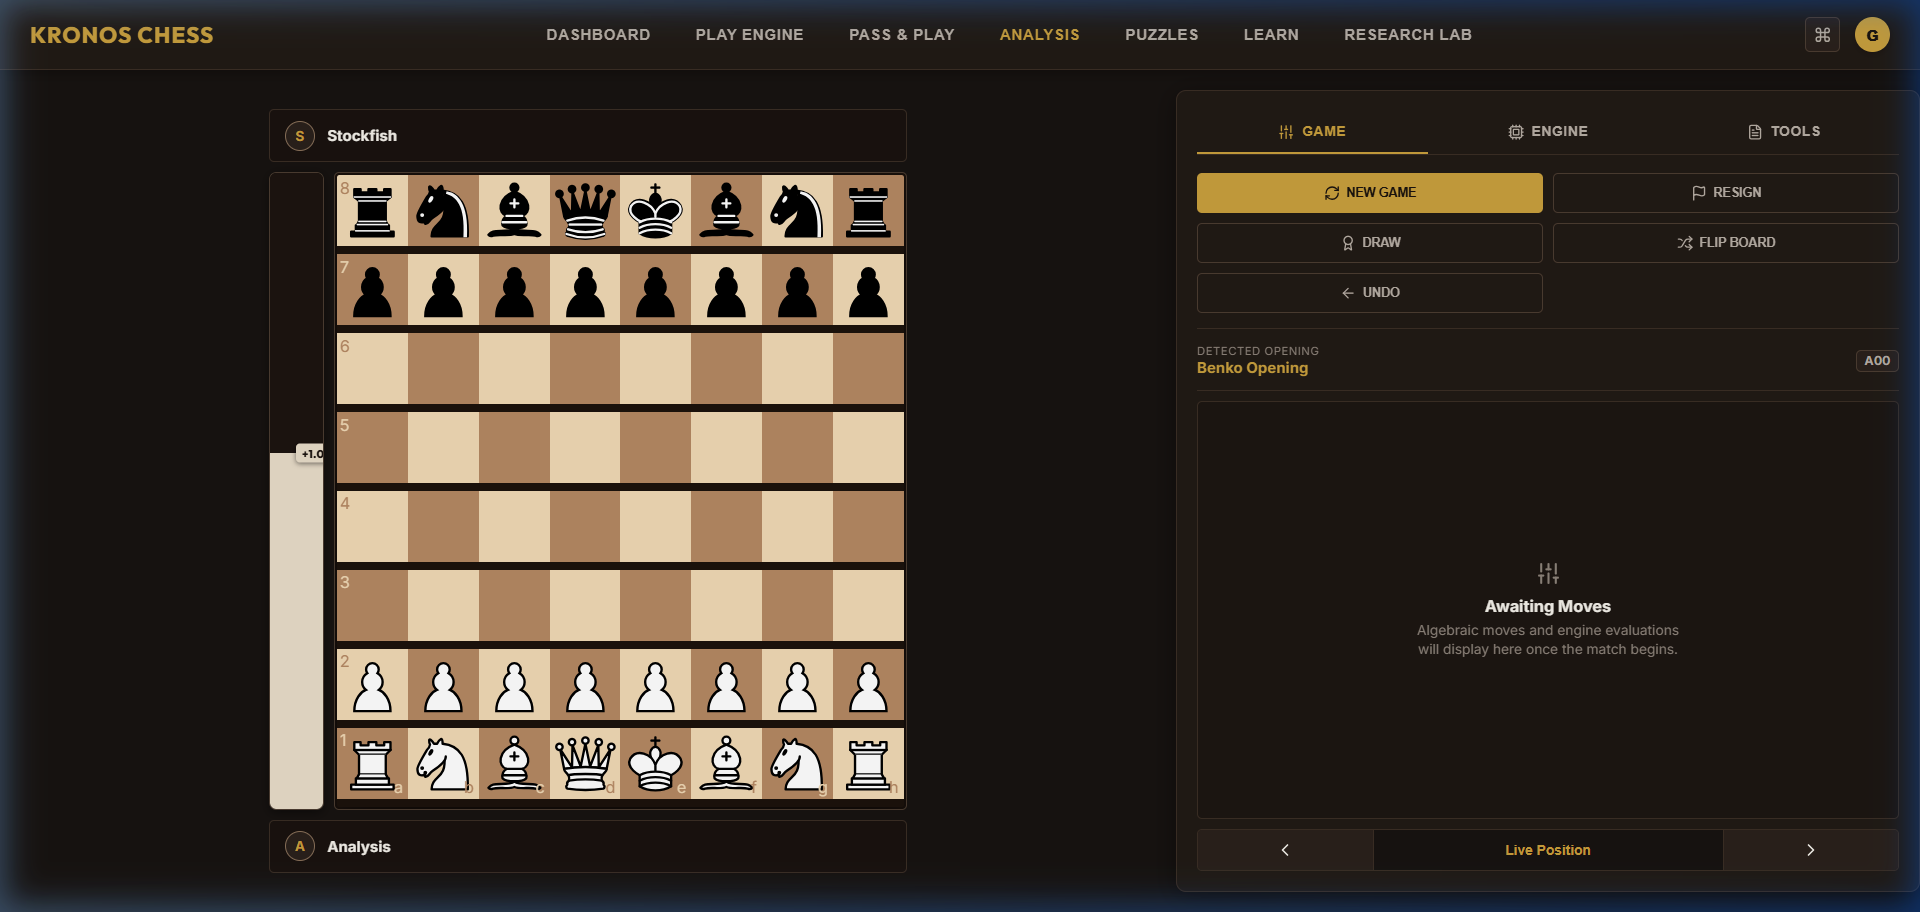
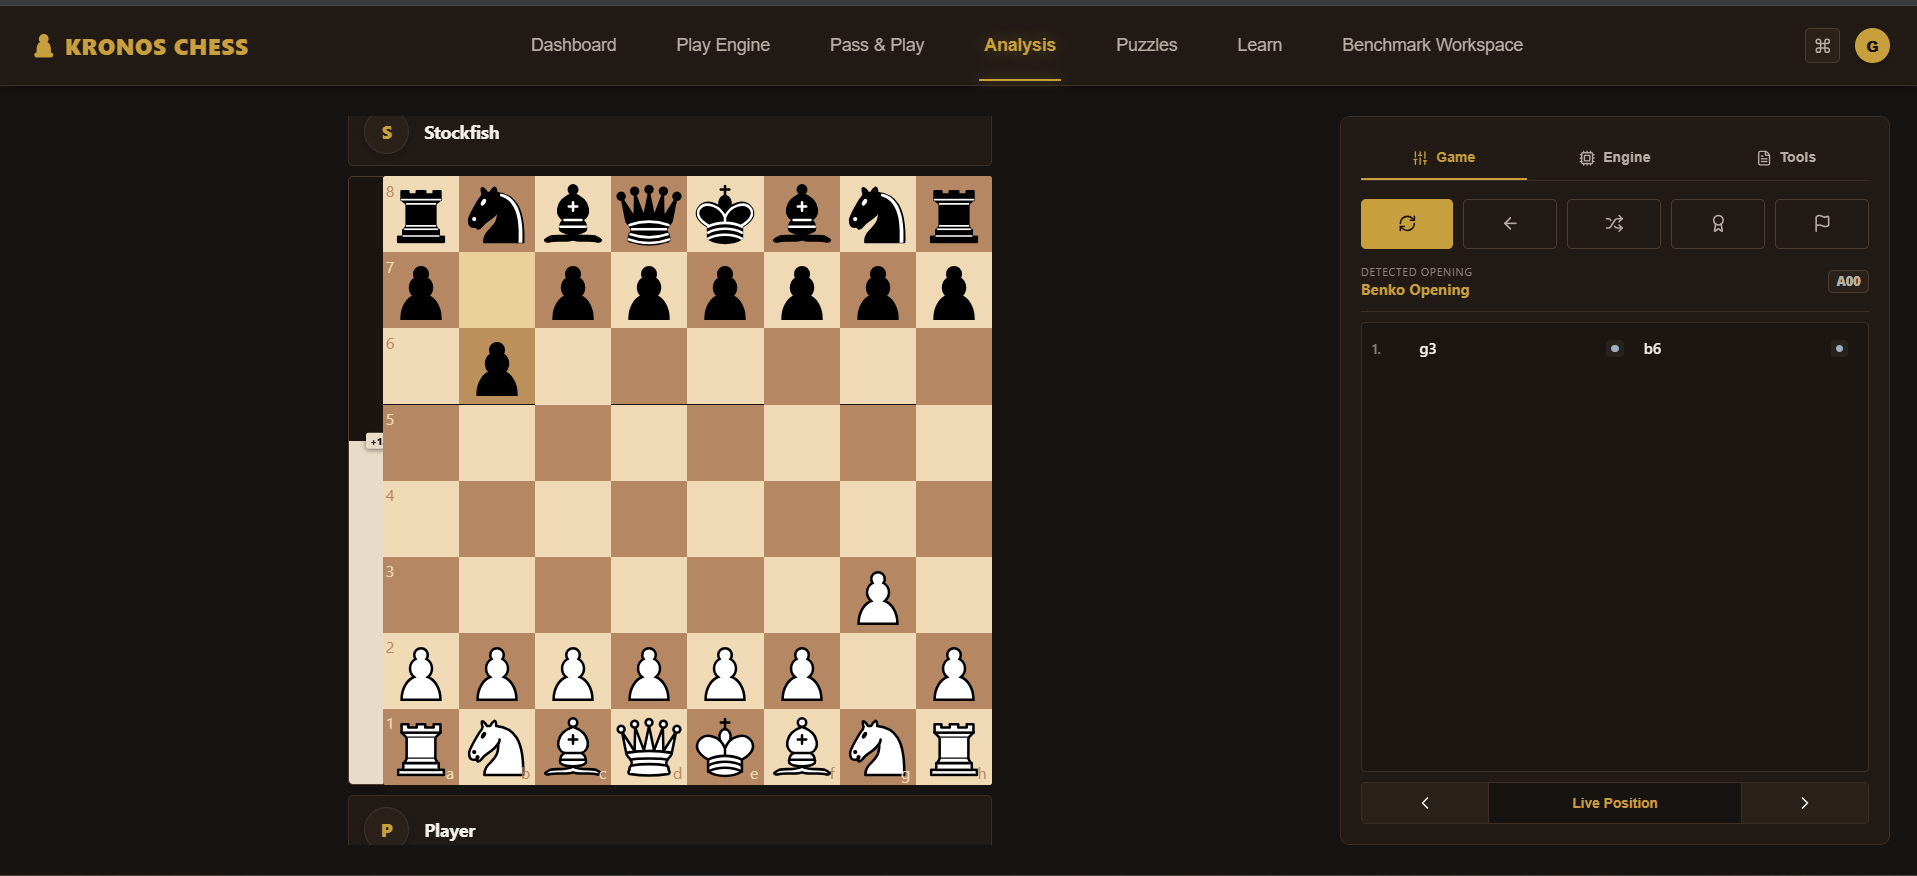
research paper work done

diff --git a/research-paper/tables/node_counts.tex b/research-paper/tables/node_counts.tex
@@ -1,6 +1,6 @@
 \begin{table}[htbp]
 \centering
-\caption[Search Node Ablation Study at Depth 4]{Search node count ablation study at depth 4. Note: The ablation study was executed under a legacy configuration where NMP was active for $d \ge 3$; under the final optimized configuration ($d \ge 5$), NMP is inactive at depth 4, resulting in a 0\% node reduction relative to the baseline.}
+\caption[Search Node Ablation Study at Depth 4]{Search node count ablation study at depth 4 under the final optimized configuration ($d \ge 5$ threshold for NMP).\footnotemark}
 \label{tab:node_counts}
 \begin{tabularx}{\textwidth}{Xrrr}
 \toprule
@@ -10,10 +10,11 @@ Full Kronos Engine (All Features) & 8,286  & --     & 1.00x \\
 No Principal Variation Search (PVS) & 8,739  & 5.2\%  & 0.78x \\
 No History Heuristic              & 8,869  & 6.6\%  & 0.78x \\
 No Late Move Reductions (LMR)     & 24,572 & 66.3\% & 0.24x \\
-No Null Move Pruning (NMP)        & 8,360  & 0.9\%  & 0.67x \\
+No Null Move Pruning (NMP)        & 8,286  & 0.0\%  & 1.00x \\
 Baseline Alpha-Beta (unordered) & 47,159 & 82.4\% & 0.12x \\
 \bottomrule
 \end{tabularx}
+\footnotetext{Note: Individual reductions are calculated independently by disabling each heuristic individually against the full configuration, and are therefore non-additive.}
 \end{table}
 
 

diff --git a/research-paper/sections/experimental_results.tex b/research-paper/sections/experimental_results.tex
@@ -67,7 +67,7 @@ The mechanism is simple: without LMR, every move at every node must be searched 
 \subsection{Null Move Pruning (NMP)}
 NMP prunes search branches where passing the turn to the opponent still results in a score exceeding $\beta$, indicating that the position is sufficiently dominant to guarantee a cutoff. We configure NMP for search depths $d \ge 5$ using a constant reduction factor $R = 2$.
 
-At depth 4, NMP contributes a 0.9\% node reduction (from 8,360 to 8,286 nodes) but provides a 1.49× execution speedup. Note that these depth 4 measurements were recorded under a legacy configuration where the depth threshold was $d \ge 3$; under the final optimized configuration ($d \ge 5$), NMP is inactive at depth 4 and has no performance impact. The execution speedup is disproportionate to the raw node savings because NMP cutoffs occur near the root of the tree, avoiding expensive lower-ply move generation and evaluation calls on pruned sub-branches. The significance of NMP scales with search depth, proving critical for staying within time controls at depth 6.
+At depth 4, under the final optimized configuration ($d \ge 5$), NMP is inactive, resulting in a 0.0\% node reduction (8,286 nodes) and a 1.00x relative speedup. At deeper search plies ($d \ge 5$), NMP becomes active, pruning dominant branches early and avoiding expensive lower-ply move generation and evaluation calls on pruned sub-branches. The significance of NMP scales with search depth, proving critical for staying within time controls at depth 6.
 
 \subsection{Quiescence Search}
 Quiescence search mitigates the horizon effect by extending the search beyond the nominal depth limit for unstable, tactical positions containing legal captures. This prevents the engine from returning misleading static evaluations mid-sequence.
@@ -89,7 +89,7 @@ Table~\ref{tab:cross_depth_elo} documents per-move search throughput and playing
 
 \input{tables/cross_depth_elo}
 
-The internal Bradley-Terry self-play rating scales from 1,015 (estimated) at depth 1 to a peak internal self-play rating of 1,400 Elo at depth 6. At depth 5, the rating plateaus at 1,383 Elo, suggesting that the additional search ply does not consistently find better moves within the configured tournament time controls.
+The internal Bradley-Terry self-play rating scales from 1,015 (estimated) at depth 1 to a peak internal self-play rating of 1,400 Elo at depth 6. The ratings for depths 1 and 2 are estimated by anchoring the Bradley-Terry self-play model to the baseline minimax performance (anchored at 1000) and extrapolating the rating curve using the win-loss ratios of a small paired matchup series against depth 3. At depth 5, the rating plateaus at 1,383 Elo, suggesting that the additional search ply does not consistently find better moves within the configured tournament time controls.
 
 The performance regression at depth 7 ($-$35 Elo) is caused by single-threaded latency constraints. Telemetry logs indicate that the worker thread exceeded the move time limit (forcing a fallback to the depth-6 results) on average for 42.5\% of the moves during depth-7 matches. When search time at depth 7 exceeds the tournament time limit, the engine returns the best move from the last fully completed iterative deepening iteration (depth 6) rather than the incomplete depth-7 results. This timeout behavior introduces a performance ceiling, indicating that single-threaded JavaScript search workers cannot reliably sustain depth-7 calculations under standard time controls.
 

diff --git a/research-paper/tables/statistical_validation.tex b/research-paper/tables/statistical_validation.tex
@@ -1,6 +1,6 @@
 \begin{table}[htbp]
 \centering
-\caption[Statistical Significance Validation Matrix (SPRT)]{Statistical significance validation matrix (SPRT) at depth 4.}
+\caption[Statistical Significance Validation Matrix (SPRT)]{Statistical significance validation matrix (SPRT) at depth 3.\footnotemark}
 \label{tab:statistical_validation}
 \begin{tabularx}{\textwidth}{X c c c c}
 \toprule
@@ -14,6 +14,7 @@ Iterative Deepening vs.\ TT (EXP-5)        & $[-2.944, 2.944]$ & 153 & $-$0.171 
 Quiescence Search vs.\ No Quiescence (EXP-6) & $[-2.944, 2.944]$ & 400 & 75.433 & Accepted ($H_1$) \\
 \bottomrule
 \end{tabularx}
+\footnotetext{Note: EXP-3 and EXP-4 report identical game counts and LLR metrics because both tournaments involve matchups between mathematically decision-equivalent minimax formulations under a fixed-depth constraint. Since Alpha-Beta pruning, move ordering, and transposition table caching preserve search value evaluations and output identical move selections under deterministic execution, the resulting game trajectories are identical.}
 \end{table}
 
 

diff --git a/research-paper/sections/abstract.tex b/research-paper/sections/abstract.tex
@@ -1,1 +1,1 @@
-We present Kronos, a modular chess engine and benchmarking framework implemented in Node.js and JavaScript, designed to empirically evaluate the execution behavior of classical search heuristics within managed, garbage-collected runtime environments. Standard chess engine implementations favor native compile targets like C/C++ to avoid execution overhead and garbage collection pauses. We observe that through targeted optimization of board representations, strict object-reuse patterns, and modular search configurations, stable search throughput can be achieved on dynamic runtimes. Our architecture decouples the React-based user interface control plane from background search Web Workers executing the search logic. The engine implements standard search enhancements including Principal Variation Search (PVS), Null Move Pruning (NMP), and Late Move Reductions (LMR), backed by a size-bounded, Zobrist-keyed Transposition Table. Using a parallel tournament framework with color-flipped paired matches, our measurements indicate that these combined heuristics compress the search space compared to baseline alpha-beta search without ordering enhancements. Node-count reductions were consistently measured for several heuristics. Under Sequential Probability Ratio Testing (SPRT), quiescence search was the only enhancement accepted as demonstrating a statistically significant playing-strength improvement, while the remaining heuristics produced node-count reductions but inconclusive playing-strength evidence at the tested sample sizes. Evaluating relative playing strength across configurations yields a peak internal Bradley–Terry self-play rating of 1,400 Elo at search depth 6 (representing relative strength fitted within a closed, self-anchored variant pool), after which worker latency timeouts degrade performance. External calibration matches against depth-limited Stockfish 18 reference benchmarks report a matchup differential of $-215 \pm 29$ Elo at depth 3; we note that depth-limited Stockfish degrades non-linearly due to its NNUE evaluation architecture, meaning these matchup differentials reflect performance bounds under dynamic runtime constraints and should not be treated as absolute anchors for standard rating pools. These outcomes suggest that carefully structured dynamic runtimes can support stable, real-time game-tree search without performance degradation from memory sweeps.
+We present Kronos, a modular chess engine and benchmarking framework implemented in Node.js and JavaScript, designed to empirically evaluate the execution behavior of classical search heuristics within managed, garbage-collected runtime environments. Standard chess engine implementations favor native compile targets like C/C++ to avoid execution overhead and garbage collection pauses. We observe that through targeted optimization of board representations, strict object-reuse patterns, and modular search configurations, stable search throughput can be achieved on dynamic runtimes. Our architecture decouples the React-based user interface control plane from background search Web Workers executing the search logic. The engine implements standard search enhancements including Principal Variation Search (PVS), Null Move Pruning (NMP), and Late Move Reductions (LMR), backed by a size-bounded, Zobrist-keyed Transposition Table. Using a parallel tournament framework with color-flipped paired matches, our measurements indicate that these combined heuristics compress the search space compared to baseline alpha-beta search without ordering enhancements. Node-count reductions were consistently measured for several heuristics. Under Sequential Probability Ratio Testing (SPRT), quiescence search was the only enhancement accepted as demonstrating a statistically significant playing-strength improvement, while the remaining heuristics produced node-count reductions but inconclusive playing-strength evidence at the tested sample sizes. Evaluating relative playing strength across configurations yields a peak internal self-play index of 1,400 (an arbitrary scale not comparable to standard rating pools) at search depth 6, after which worker latency timeouts degrade performance. External calibration matches against depth-limited Stockfish 18 reference benchmarks report a matchup differential of $-215 \pm 29$ Elo at depth 3; we note that depth-limited Stockfish degrades non-linearly due to its NNUE evaluation architecture, meaning these matchup differentials reflect performance bounds under dynamic runtime constraints and should not be treated as absolute anchors for standard rating pools. These outcomes suggest that carefully structured dynamic runtimes can support stable, real-time game-tree search without performance degradation from memory sweeps.

diff --git a/research-paper/sections/discussion.tex b/research-paper/sections/discussion.tex
@@ -38,7 +38,7 @@ Third, Sequential Probability Ratio Testing (SPRT) provides a mathematically gro
 
 \textbf{Determinism and statistical validity:} Because the search core is strictly deterministic (no temperature-scaled randomness or stochastic move selection), two identical engine variants playing from the same opening FEN will produce the exact same move sequence every time. The effective number of independent game outcomes per matchup is therefore bounded by the opening book size: $2 \times |\text{opening book}| = 100$ independent observations (50 positions $\times$ 2 color assignments). In cross-variant matchups (e.g., Alpha-Beta vs.\ Minimax), the two engine variants produce different move sequences from the same opening, so each of the 100 starting configurations yields a unique game trajectory. However, once all 100 configurations have been played, subsequent games are exact replays of earlier outcomes. Consequently, the reported SPRT game counts in Table~\ref{tab:statistical_validation} (ranging from 153 to 400 games) exceed this independence bound, meaning the effective sample sizes are capped at 100 regardless of the total games executed. The reported LLR values and confidence intervals are therefore computed over a sample containing duplicated outcomes, which inflates the apparent statistical power. We acknowledge this as a structural limitation of deterministic self-play: the SPRT termination decisions should be interpreted with the understanding that the true effective sample size is at most 100, and the reported confidence intervals understate the actual uncertainty. Crucially, these higher game counts (up to 400 games) were intentionally sustained to evaluate the long-running memory stability and garbage collection resilience of the tournament scheduler and worker threads over hundreds of consecutive games, rather than to claim additional statistical degrees of freedom.
 
-To assess the impact of this sample-size inflation on our empirical findings, we analytically rescale the reported LLR metrics to the $N_{\text{eff}} = 100$ limit (effectively dividing the LLR by the inflation factor $N_{\text{total}}/100$). For Quiescence Search (EXP-6), scaling the LLR from 400 down to 100 games yields an adjusted LLR of $75.433 / 4 \approx 18.86$. Because this adjusted value remains significantly above the upper Wald boundary of 2.944, the acceptance of the playing-strength hypothesis for quiescence search remains statistically valid. For all other configurations (e.g., Move Ordering, EXP-2, where the LLR scales from 0.859 to $\approx 0.46$; Iterative Deepening, EXP-5, where the LLR scales from $-$0.171 to $\approx -0.11$), the adjusted metrics remain well within the Wald boundaries, confirming their inconclusive status. Therefore, while sample-size correction doubles the width of our rating confidence intervals, it does not alter the final binary acceptance or rejection decisions of the SPRT framework.
+To assess the impact of this sample-size inflation on our empirical findings, as a conservative sensitivity check, we linearly scaled down the reported LLR metrics to the $N_{\text{eff}} = 100$ limit (effectively dividing the LLR by the inflation factor $N_{\text{total}}/100$). For Quiescence Search (EXP-6), scaling the LLR from 400 down to 100 games yields an adjusted LLR of $75.433 / 4 \approx 18.86$. Because this adjusted value remains significantly above the upper Wald boundary of 2.944, the acceptance of the playing-strength hypothesis for quiescence search remains statistically valid. For all other configurations (e.g., Move Ordering, EXP-2, where the LLR scales from 0.859 to $\approx 0.46$; Iterative Deepening, EXP-5, where the LLR scales from $-$0.171 to $\approx -0.11$), the adjusted metrics remain well within the Wald boundaries, confirming their inconclusive status. Therefore, while sample-size correction doubles the width of our rating confidence intervals, it does not alter the final binary acceptance or rejection decisions of the SPRT framework.
 
 \section{Draw-Rate Analysis in Self-Play Pools}
 During self-play matchups between variants of similar strength, draw rates reached 66.7\% to 70.0\% (Table~\ref{tab:tournament_results}). We identify four contributing factors to this high draw rate:

diff --git a/research-paper/main.tex b/research-paper/main.tex
@@ -2,6 +2,7 @@
 
 % --- Core Packages ---
 \usepackage[T1]{fontenc}
+\usepackage{lmodern}
 \usepackage[utf8]{inputenc}
 \usepackage[margin=1in]{geometry}
 \usepackage{cite}